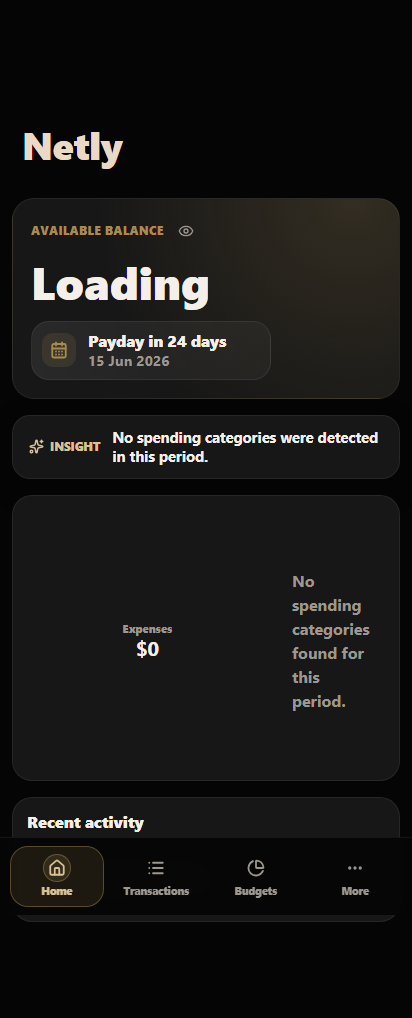
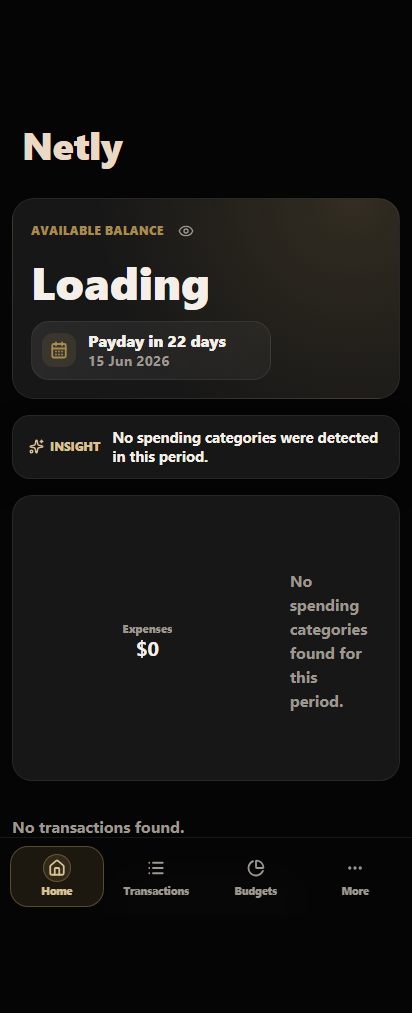
Fix text allignment for money amount

diff --git a/features/home/RecentActivityStrip.tsx b/features/home/RecentActivityStrip.tsx
@@ -2,7 +2,6 @@
 
 import { useCallback, useEffect, useMemo, useState } from "react";
 import { Button } from "@/components/ui/button";
-import { Card, CardHeader, CardTitle } from "@/components/ui/card";
 import { TransactionDetailsOverlay } from "@/features/transactions/TransactionList";
 import { MoneyMovementCard } from "@/components/MoneyMovementCard";
 import {
@@ -48,20 +47,19 @@ export function RecentActivityStrip({ categoryColors, onViewAll, transactions }:
 
   if (transactions.length === 0) {
     return (
-      <Card className="grid gap-4">
-        <RecentActivityHeader onViewAll={onViewAll} />
-        <div className="empty-state">No transactions found.</div>
-      </Card>
+      <section className="transaction-list-layout">
+        <div className="empty-state home-recent-empty">No transactions found.</div>
+        <ViewAllTransactionsButton onViewAll={onViewAll} />
+      </section>
     );
   }
 
   return (
-    <Card className="grid gap-4">
-      <RecentActivityHeader onViewAll={onViewAll} />
+    <section className="transaction-list-layout">
       <div className="money-movement-list home-recent-transactions" data-testid="home-recent-transactions">
         {transactionGroups.map((group) => (
-          <div className="home-recent-date-group" key={group.date}>
-            <h3 className="home-recent-date-heading">{formatTransactionDateHeading(group.date)}</h3>
+          <div className="transaction-date-group" key={group.date}>
+            <h3 className="transaction-date-group-heading">{formatTransactionDateHeading(group.date)}</h3>
             {group.transactions.map((transaction) => {
               const category = getTransactionCategory(transaction);
               const merchant = getTransactionMerchant(transaction);
@@ -83,11 +81,7 @@ export function RecentActivityStrip({ categoryColors, onViewAll, transactions }:
           </div>
         ))}
       </div>
-      <div className="flex justify-center px-0 pt-0.5 pb-1">
-        <Button className="min-h-[38px] rounded-full px-[26px]" onClick={onViewAll} type="button" variant="secondary">
-          View All Transactions
-        </Button>
-      </div>
+      <ViewAllTransactionsButton onViewAll={onViewAll} />
       {detailsTransaction && (
         <TransactionDetailsOverlay
           categoryColors={categoryColors}
@@ -96,15 +90,17 @@ export function RecentActivityStrip({ categoryColors, onViewAll, transactions }:
           transaction={detailsTransaction}
         />
       )}
-    </Card>
+    </section>
   );
 }
 
-function RecentActivityHeader({ onViewAll }: { onViewAll: () => void }) {
+function ViewAllTransactionsButton({ onViewAll }: { onViewAll: () => void }) {
   return (
-    <CardHeader>
-      <CardTitle>Recent activity</CardTitle>
-    </CardHeader>
+    <div className="flex justify-center px-0 pt-0.5 pb-1">
+      <Button className="min-h-[38px] rounded-full px-[26px]" onClick={onViewAll} type="button" variant="secondary">
+        View All Transactions
+      </Button>
+    </div>
   );
 }
 

diff --git a/app/globals.css b/app/globals.css
@@ -952,6 +952,8 @@ button.money-movement-card {
 .money-movement-value {
   display: grid;
   min-width: 0;
+  align-self: stretch;
+  align-content: center;
   justify-items: end;
   gap: 5px;
   text-align: right;
@@ -992,19 +994,6 @@ button.money-movement-card {
   padding: 4px 4px 0;
   color: var(--muted);
   font-size: 0.88rem;
-  font-weight: 850;
-  line-height: 1.2;
-}
-
-.home-recent-date-group {
-  display: grid;
-  gap: 8px;
-}
-
-.home-recent-date-heading {
-  margin: 2px 2px 0;
-  color: var(--muted);
-  font-size: 0.86rem;
   font-weight: 850;
   line-height: 1.2;
 }
@@ -1241,6 +1230,7 @@ button.money-movement-card {
 .legend-dot {
   width: 12px;
   height: 12px;
+  flex: 0 0 12px;
   border-radius: 999px;
 }
 
@@ -2849,6 +2839,10 @@ button.money-movement-card {
   align-content: center;
 }
 
+.budget-breakdown-card.has-amount-detail .money-movement-value {
+  align-content: start;
+}
+
 .budget-breakdown-card .money-movement-copy > small,
 .budget-breakdown-card .money-movement-value small,
 .budget-breakdown-card .money-movement-amount {
@@ -3411,7 +3405,7 @@ button.money-movement-card {
     min-height: 88px;
     border-radius: 18px;
     padding: 12px;
-    background: var(--surface);
+    background: var(--surface-2);
   }
 
   .transaction-date-group-heading {
@@ -4113,6 +4107,13 @@ body {
   box-shadow: none;
 }
 
+.home-recent-empty {
+  border: 0;
+  padding-inline: 0;
+  background: transparent;
+  box-shadow: none;
+}
+
 .budget-grid article {
   border-color: var(--outline-soft);
   box-shadow: none;
@@ -4508,7 +4509,7 @@ body {
   .money-movement-card {
     min-height: 76px;
     border-radius: 18px;
-    background: var(--surface);
+    background: var(--surface-2);
   }
 }
 

diff --git a/tests/visual/netly-visual.spec.ts b/tests/visual/netly-visual.spec.ts
@@ -206,6 +206,16 @@ test("budget card opens category spending breakdown with donut chart", async ({ 
   await expect(page.getByTestId("budget-selected-transactions")).toContainText("food-1");
   await expect(page.getByTestId("budget-selected-transactions")).toContainText("food-2");
   await expect(page.getByTestId("budget-selected-transactions").locator(".money-movement-card")).toHaveCount(2);
+  const selectedTransactionRowProbe = await page.getByTestId("budget-selected-transactions").locator(".money-movement-card").filter({ hasText: "food-1" }).evaluate((element) => {
+    const amount = element.querySelector(".money-movement-amount");
+    const cardRect = element.getBoundingClientRect();
+    const amountRect = amount?.getBoundingClientRect();
+
+    return {
+      amountCenterDelta: amountRect ? Math.abs((amountRect.top + amountRect.height / 2) - (cardRect.top + cardRect.height / 2)) : -1
+    };
+  });
+  expect(selectedTransactionRowProbe.amountCenterDelta).toBeLessThanOrEqual(2);
   await expect.poll(() => getDocumentTop(page.locator(".budget-breakdown-chart"))).toBeCloseTo(chartDocumentTopBeforeExpansion, 1);
 
   await page.getByTestId("budget-selected-transactions").locator(".money-movement-card").filter({ hasText: "food-1" }).click();

diff --git a/components/MoneyMovementCard.tsx b/components/MoneyMovementCard.tsx
@@ -43,7 +43,7 @@ export function MoneyMovementCard({
   testId,
   title
 }: MoneyMovementCardProps) {
-  const cardClassName = cn("money-movement-card", onClick && "clickable", selected && "selected", className);
+  const cardClassName = cn("money-movement-card", amountDetail && "has-amount-detail", onClick && "clickable", selected && "selected", className);
   const colorStyle = { "--transaction-color": categoryColor } as CSSProperties;
   const initial = (avatarLabel || title).trim().slice(0, 1).toUpperCase();
   const hasMetaRow = showCategoryChip || Boolean(detail);